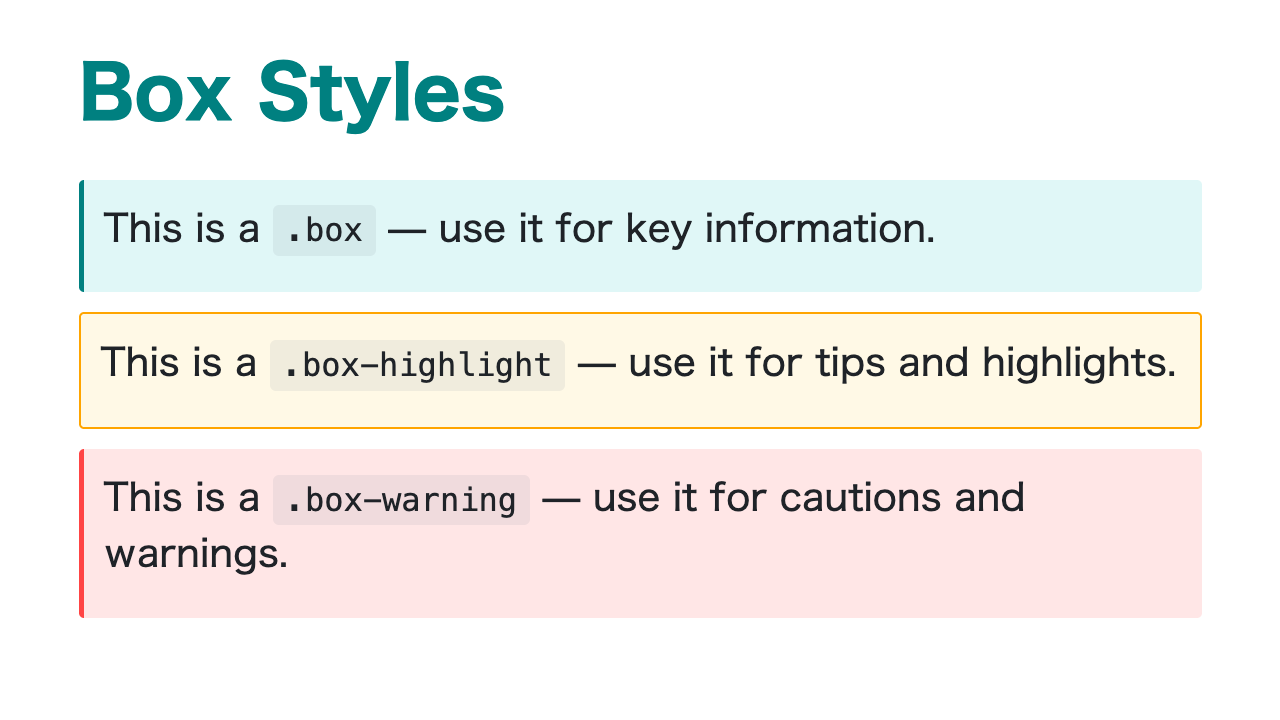
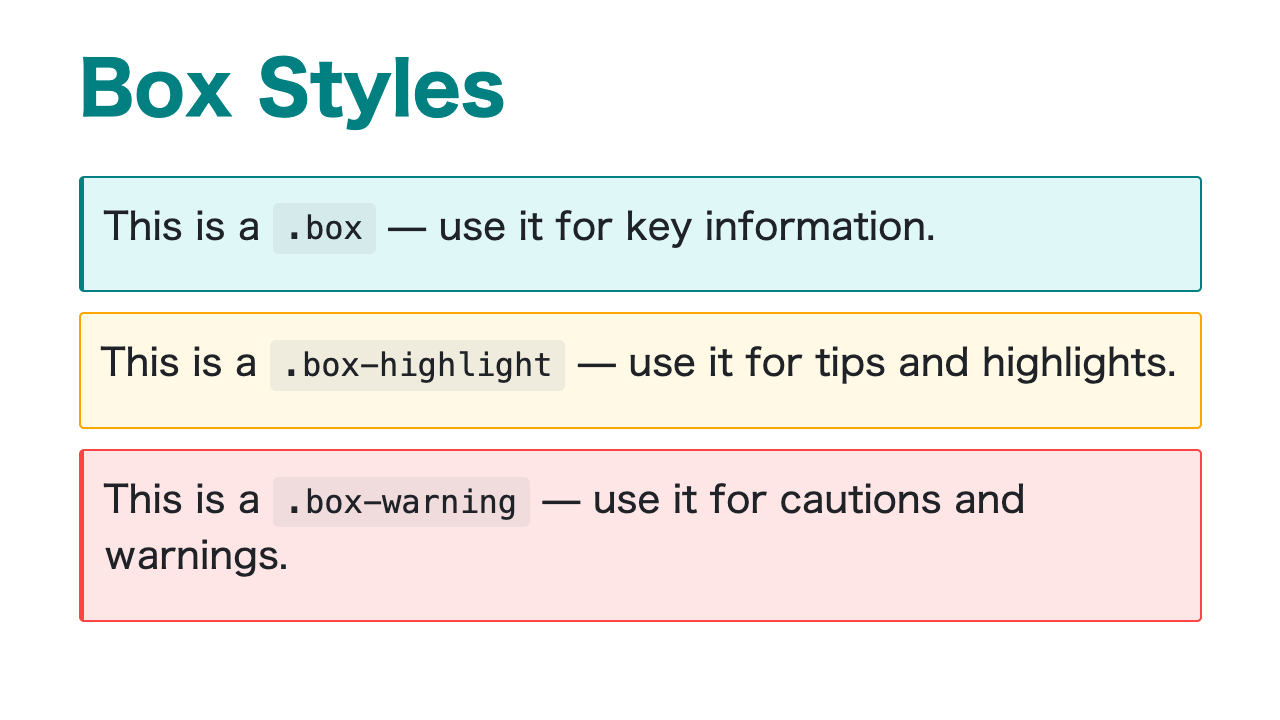
Fix box and blockquote styles to have full border
Added border on all sides (not just left) for .box, .box-warning,
and blockquote to match .box-highlight's enclosed appearance.

diff --git a/umino.css b/umino.css
@@ -42,6 +42,7 @@ h4 {
 /* ボックススタイル */
 .box {
   background-color: #E0F7F7;
+  border: 2px solid #008080;
   border-left: 5px solid #008080;
   padding: 20px;
   margin: 20px 0;
@@ -58,6 +59,7 @@ h4 {
 
 .box-warning {
   background-color: #FFE6E6;
+  border: 2px solid #FF4444;
   border-left: 5px solid #FF4444;
   padding: 20px;
   margin: 20px 0;
@@ -67,6 +69,7 @@ h4 {
 /* 引用ブロックのカスタマイズ */
 blockquote {
   background-color: #E0F7F7;
+  border: 2px solid #008080;
   border-left: 5px solid #008080;
   padding: 20px;
   margin: 20px 0;
